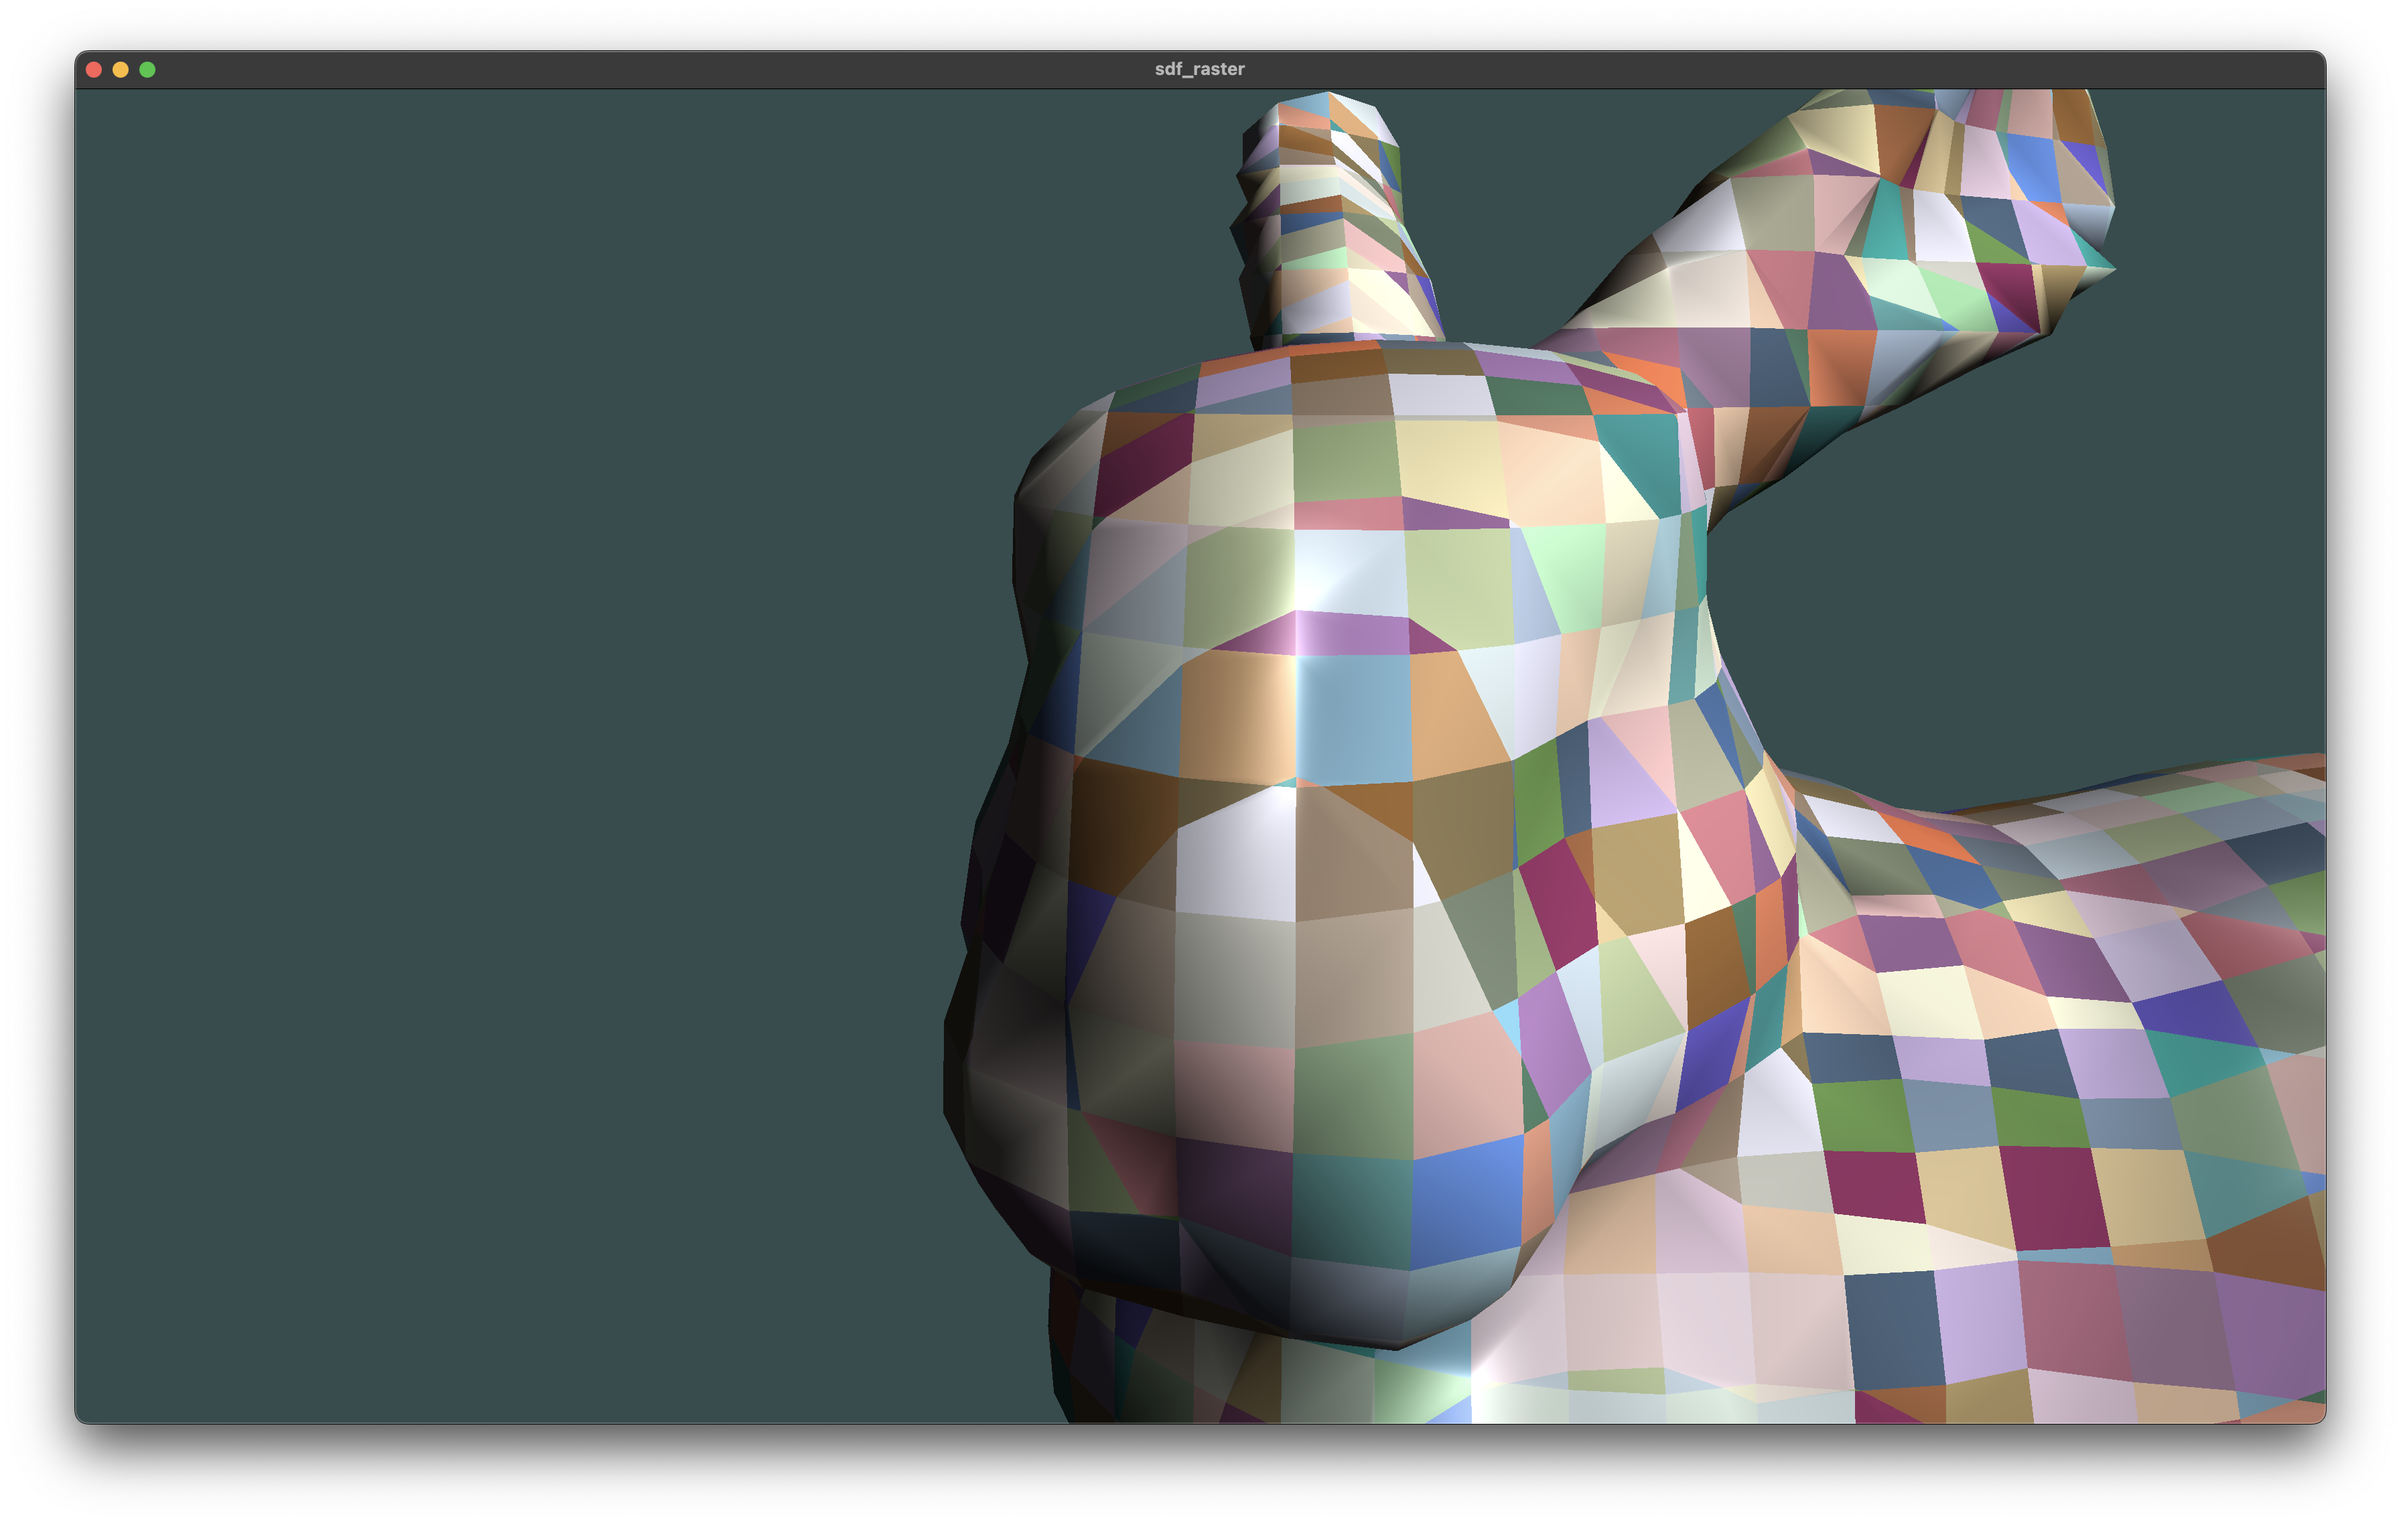
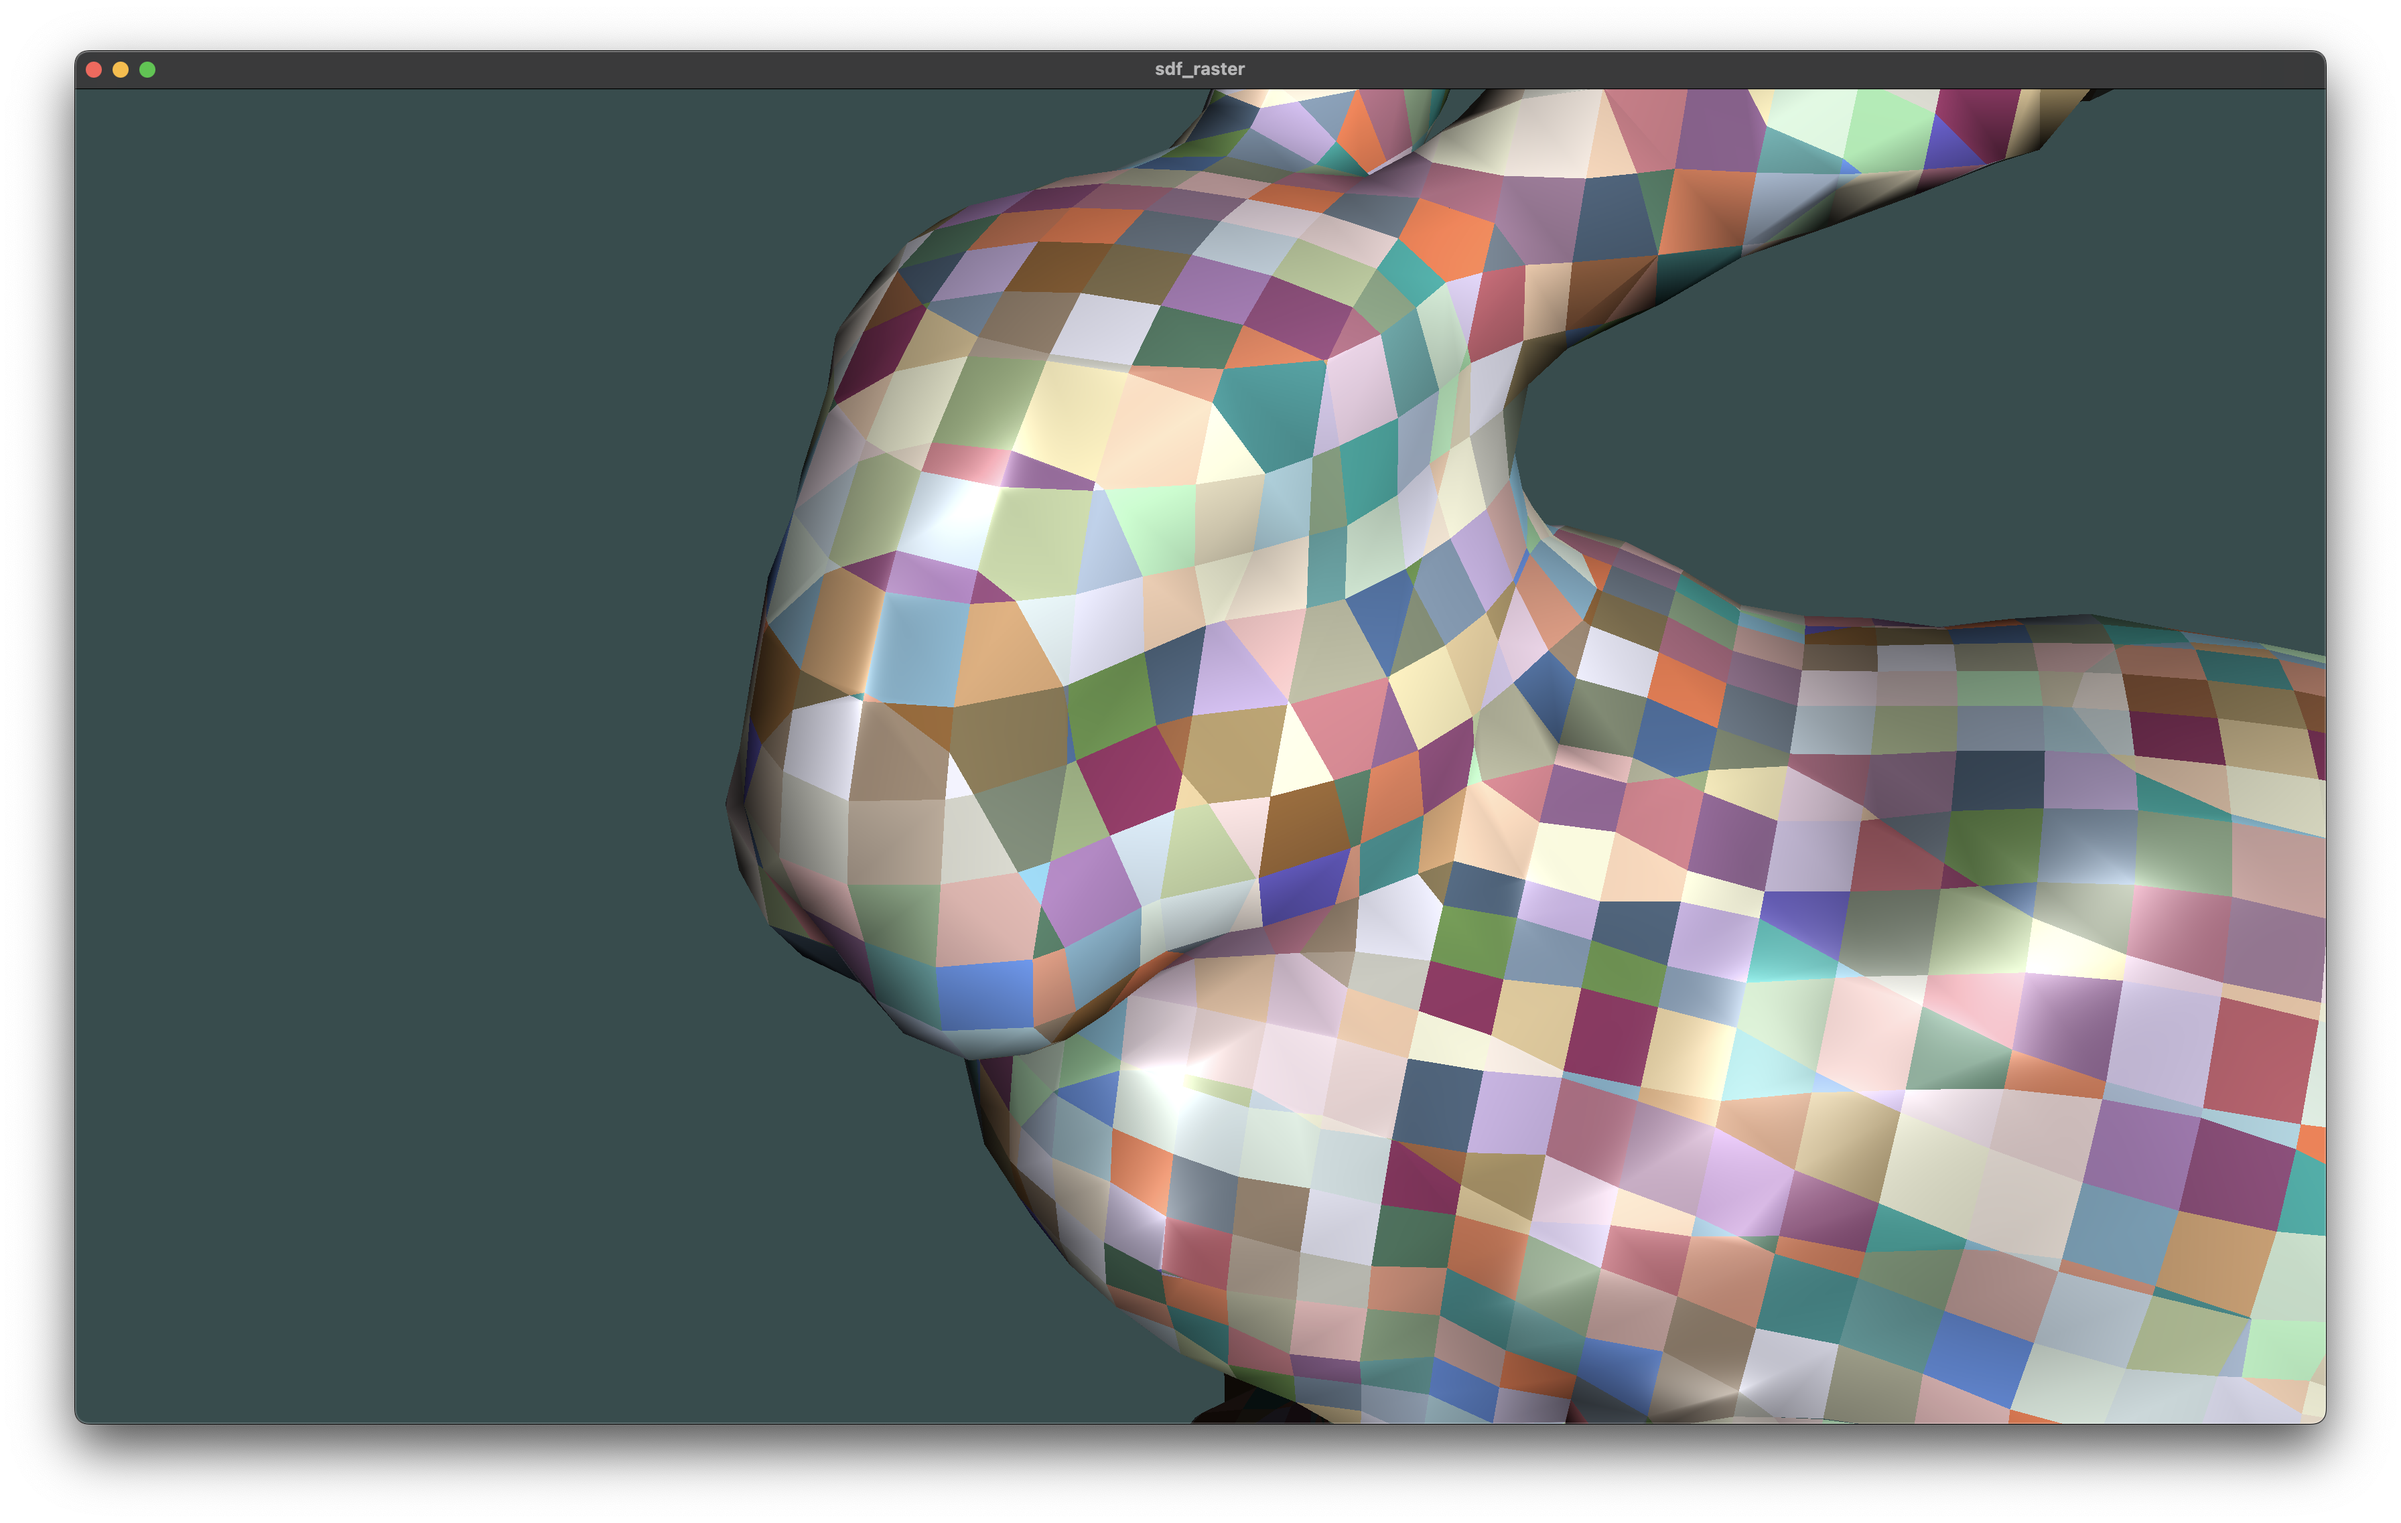
release v1.0.1

diff --git a/README.md b/README.md
@@ -7,7 +7,7 @@
 </p>
 
 <p align="center">
-  <img src="images/bunny_frustum_culled.png" alt="Stanford Bunny Frustum Culled" width="700"/>
+  <img src="images/bunny_culled.png" alt="Stanford Bunny Culled" width="700"/>
   <br>
   <em>What is actually rendered.</em>
 </p>
@@ -24,66 +24,142 @@ The goal of this **master degree diploma** project is to develop accelerated imp
 *   **Frutum culling:** Culling whole SDF-octree subtrees which are not intersected with frustum.
 *   **Fly-around cam:** Simple camera and controls for scene navigation. Caches previous camera view.
 *   **Culling demo:** Ability to leave your current frustum and look at the renderered scene from another angle.
-*   **Occlusion culling (WIP):** Occlusion culling optimization using H-Zbuffer.
+*   **Occlusion culling:** Occlusion culling optimization using previous frame H-Zbuffer.
 *   **Mesh shading (WIP):** Directly feeding rasterizer with geometry, rather then using per-frame vertex buffers.
 
 ## Technology Stack
 
-*   **Language:** `C++17` (or higher)
+*   **Language:** `C++20, Slang`
 *   **Graphics API:** `Vulkan 4.0+`
 *   **Build System:** `CMake`
 *   **Windowing System:** `GLFW`
 *   **Third-party Libraries:**
-    *   `Vulkan SDK` (for Vulkan API and tooling)
-    *   `volk` (Vulkan function loader)
+    *   `volk` (for Vulkan function loading)
     *   `spdlog` (for logging)
-    *   `LiteMath` (linear algebra)
+    *   `LiteMath` (for linear algebra)
+    *   `LiteImage` (for texture/image loading)
     *   `nlohmann/json` (for configuration/data parsing)
-    *   `dear ImGui` (for debug GUI/interface)
-    *   `stb_image` (for texture/image loading)
-*   **Shader Language:** `Slang`
+    *   `dear ImGui` (for GUI/interface)
 
 ## Building the Project
 
 ### Prerequisites
 
-*   **Vulkan Libraries (optional Vulkan SDK for Debug):** `Vulkan 4.0+`
-*   **C++ Compiler:** g++ or clang.
-*   **Shader Compiler:** slangc. See script `./utils/install_slang.sh` for quick install or use Vulkan SDK.
-*   **CMake:** Version `3.16` or newer.
 *   **OS:** Linux, macOS. **Windows is not supported.**
+*   **CMake:** version `3.21` or newer.
+*   **C++ Compiler:** any
+*   **Git:** Required for cloning the repository with submodules.
+
+#### Graphics Dependencies
+
+You need to install development libraries for Vulkan and GLFW.
+
+*   **GLFW:** A windowing system library.
+    *   **On Debian/Ubuntu:**
+        ```bash
+        sudo apt install libglfw3-dev
+        ```
+    *   **On Arch Linux:**
+        ```bash
+        sudo pacman -S glfw
+        ```
+    *   **On Fedora:**
+        ```bash
+        sudo dnf install glfw-devel
+        ```
+    *   **On macOS (using Homebrew):**
+        ```bash
+        brew install glfw
+        ```
+
+*   **Vulkan:**
+    You must have a Vulkan-compatible GPU and up-to-date drivers.
+
+    **1. Minimum Requirements (for Release builds):**
+    You need the Vulkan loader and development headers.
+
+    *   **On Debian/Ubuntu:**
+        ```bash
+        sudo apt install libvulkan-dev vulkan-tools
+        ```
+    *   **On Arch Linux:**
+        ```bash
+        sudo pacman -S vulkan-icd-loader vulkan-headers
+        ```
+    *   **On Fedora:**
+        ```bash
+        sudo dnf install vulkan-loader-devel
+        ```
+    *   **On macOS (using Homebrew):**
+        ```bash
+        brew install vulkan-headers moltenvk
+        ```
+    _You can verify the installation by running `vulkaninfo`._
+
+    **2. Full SDK (for Debug builds):**
+    For debugging and access to validation layers, it is highly recommended to install the full Vulkan SDK.
+
+    *   Download the SDK from the official website: **[vulkan.lunarg.com](https://vulkan.lunarg.com/)**.
+    *   Follow their installation instructions and make sure the `VULKAN_SDK` environment variable is set correctly.
+    *   For a quick setup on Debian/Ubuntu, you can use the provided script: `./utils/install_vulkan_sdk_apt.sh`.
+
+#### Shading Language Compiler
+*   **Slang Compiler:** The project uses `slangc` for shader compilation.
+    *   You can use the provided helper script for a quick installation:
+        ```bash
+        ./utils/install_slang.sh
+        ```
+
 
 ### Build Instructions
 
-1.  **Clone the repository:**
+1.  **Clone the repository (with submodules):**
     ```bash
-    git clone https://github.com/Reefufui/sdf_raster.git
+    git clone --recursive https://github.com/Reefufui/sdf_raster.git
     cd sdf_raster
     ```
 
 2.  **Configure and Build:**
+    You can use the provided helper scripts or build manually.
 
-    *   **For Linux:**
-        ```bash
-        cmake -B build -S . -DCMAKE_BUILD_TYPE=Release
-        cmake --build build -j$(nproc)
-        ```
-        *Optionally, replace `-DCMAKE_BUILD_TYPE=Release` with `Debug` or `RelWithDebInfo`. If so, make sure that **Vulkan SDK:** is installed and properly configured. The `VULKAN_SDK` environment variable must be set. See script `utils/install_vulkan_sdk_apt.sh` for quick linux setup.
+    *   **Using Scripts (Recommended):**
+        *   For a Release build: `./utils/rebuild_release.sh`
+        *   For a Debug build: `./utils/rebuild_debug.sh`
 
-    *   **For macOS:**
-        ```bash
-        cmake -B build -S . -DCMAKE_BUILD_TYPE=Release
-        cmake --build build -j$(sysctl -n hw.ncpu)
-        ```
-        *Optionally, replace `-DCMAKE_BUILD_TYPE=Release` with `Debug` or `RelWithDebInfo`. If so, make sure that **Vulkan SDK:** is installed and properly configured. The `VULKAN_SDK` environment variable must be set.
+    *   **Manual Build:**
+        *   **For Linux:**
+            ```bash
+            # For a Release build
+            cmake -B build-release -S . -DCMAKE_BUILD_TYPE=Release
+            cmake --build build-release -j$(nproc)
+
+            # For a Debug build (Vulkan SDK is required)
+            cmake -B build-debug -S . -DCMAKE_BUILD_TYPE=Debug
+            cmake --build build-debug -j$(nproc)
+            ```
+        *   **For macOS:**
+            ```bash
+            # For a Release build
+            cmake -B build-release -S . -DCMAKE_BUILD_TYPE=Release
+            cmake --build build-release -j$(sysctl -n hw.ncpu)
+
+            # For a Debug build (Vulkan SDK is required)
+            cmake -B build-debug -S . -DCMAKE_BUILD_TYPE=Debug
+            cmake --build build-debug -j$(sysctl -n hw.ncpu)
+            ```
 
 ## Running the Project
-**Important:** The application must be run from the `build` directory to ensure all resources are loaded correctly.
+**Important:** The application must be run from the build directory to ensure all resources are loaded correctly.
 
-After building the project, navigate to the `build` directory and run the executable:
+After building the project, navigate to the build directory and run the executable:
 
 ```bash
-cd build
+# If you built in release mode
+cd build-release
+./bin/sdf_raster
+
+# Or if you built in debug mode
+cd build-debug
 ./bin/sdf_raster
 ```
 
